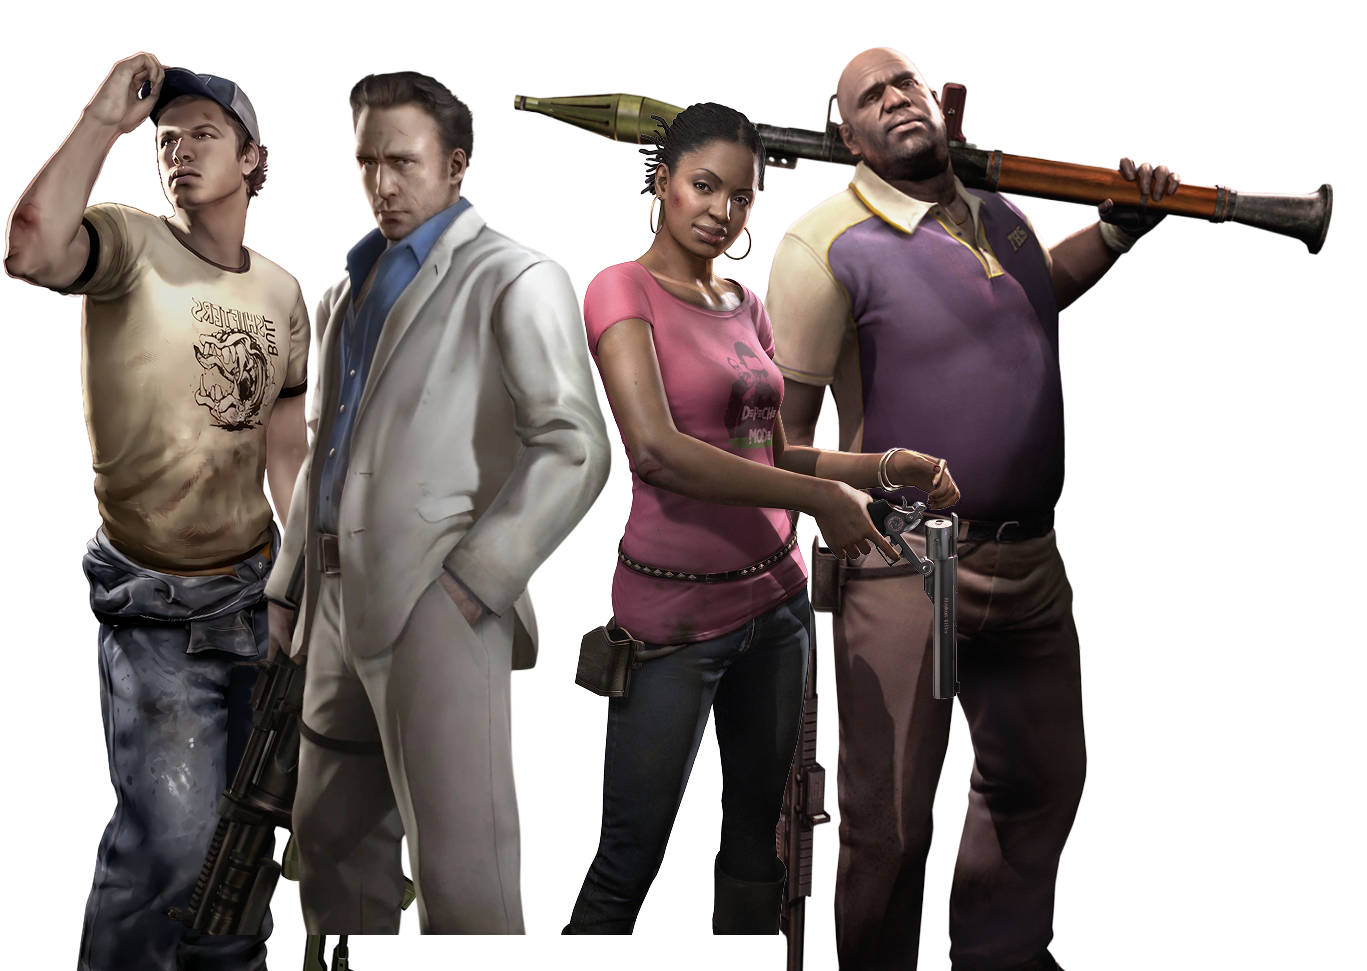
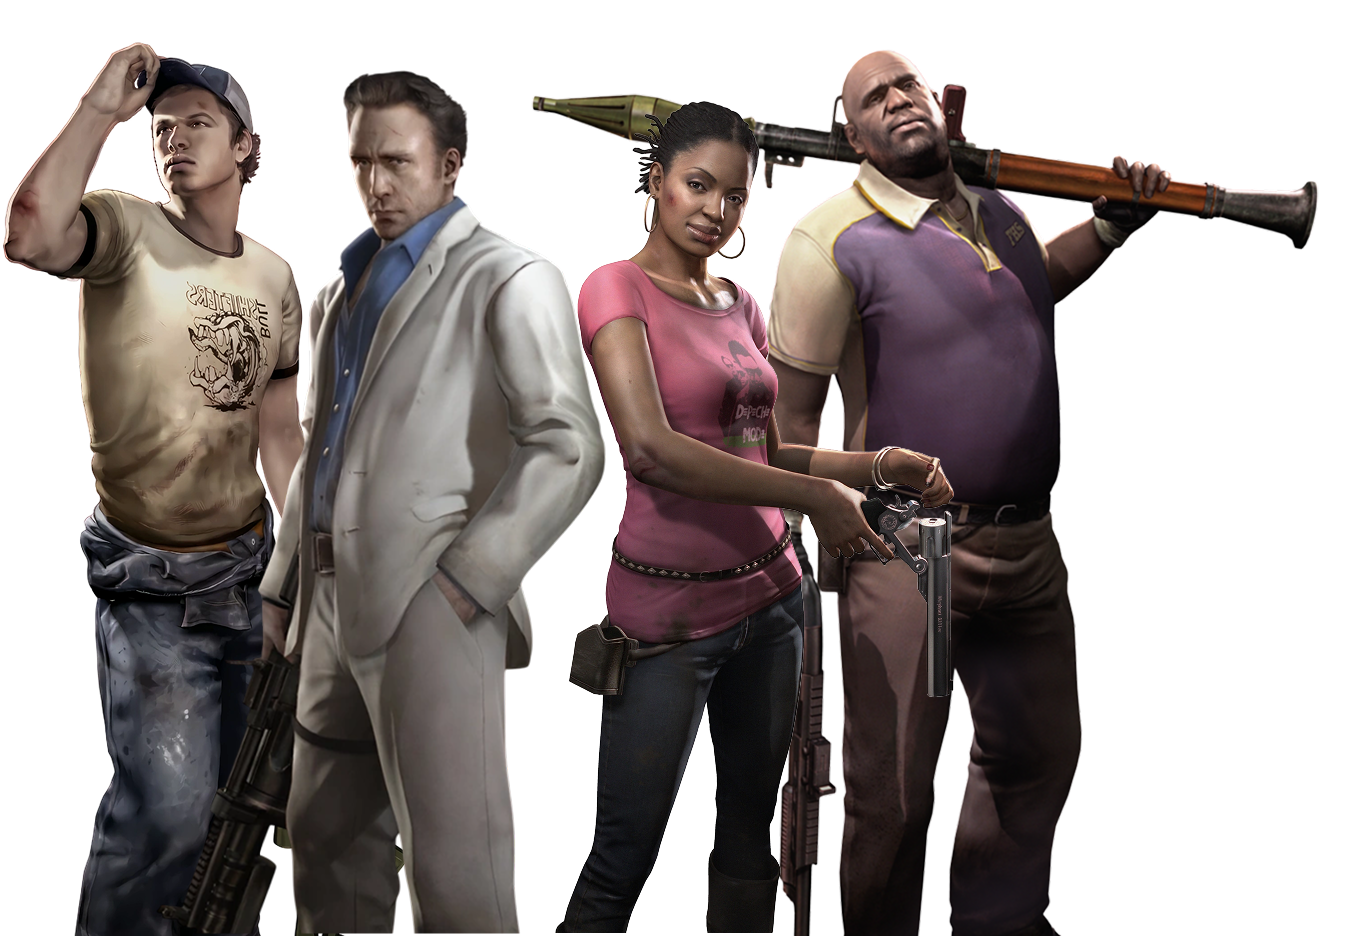
feature: adjusments made

diff --git a/css/style.css b/css/style.css
@@ -97,12 +97,12 @@ body {
    NAVIGATION BAR
 ===================================================== */
 .navbar {
-    position: absolute;
+    position: fixed;
     top: 0;
     left: 0;
     width: 100%;
 
-    height: 50px;
+    height: 60px;
 
     background: rgba(8, 11, 14, 0.7);
 
@@ -130,9 +130,9 @@ body {
 
     font-family: "Roboto Condensed", sans-serif;
 
-    font-size: 15px;
+    font-size: 20px;
 
-    font-weight: 400;
+    font-weight: 300;
 
     letter-spacing: 0.5px;
     transition: color 0.25s ease;
@@ -188,6 +188,8 @@ body {
 .character2 {
 
     left: 5%;
+
+    top: 70px;
 
     width: 68%;
 
@@ -262,7 +264,7 @@ body {
 
     left: 5%;
 
-    bottom: 15px;
+    bottom: 40px;
     width: 2500px;
 
     max-width: 60%;
@@ -280,10 +282,10 @@ body {
     width: 100%;
     min-height: 100vh;
     background-image: url("../images/BG2.png");
-    background-size: cover;
-    background-position: center;
+    background-size: auto;
+    background-position: top center;
     background-repeat: no-repeat;
-    overflow: hidden;
+    overflow: visible;
     z-index: 0;
 }
 

diff --git a/index.html b/index.html
@@ -43,7 +43,7 @@
             ====================================== -->
 
             <img
-                src="images/survivors.png"
+                src="images/SURVIVORS.png"
                 alt="Characters"
                 class="character character2"
             >
